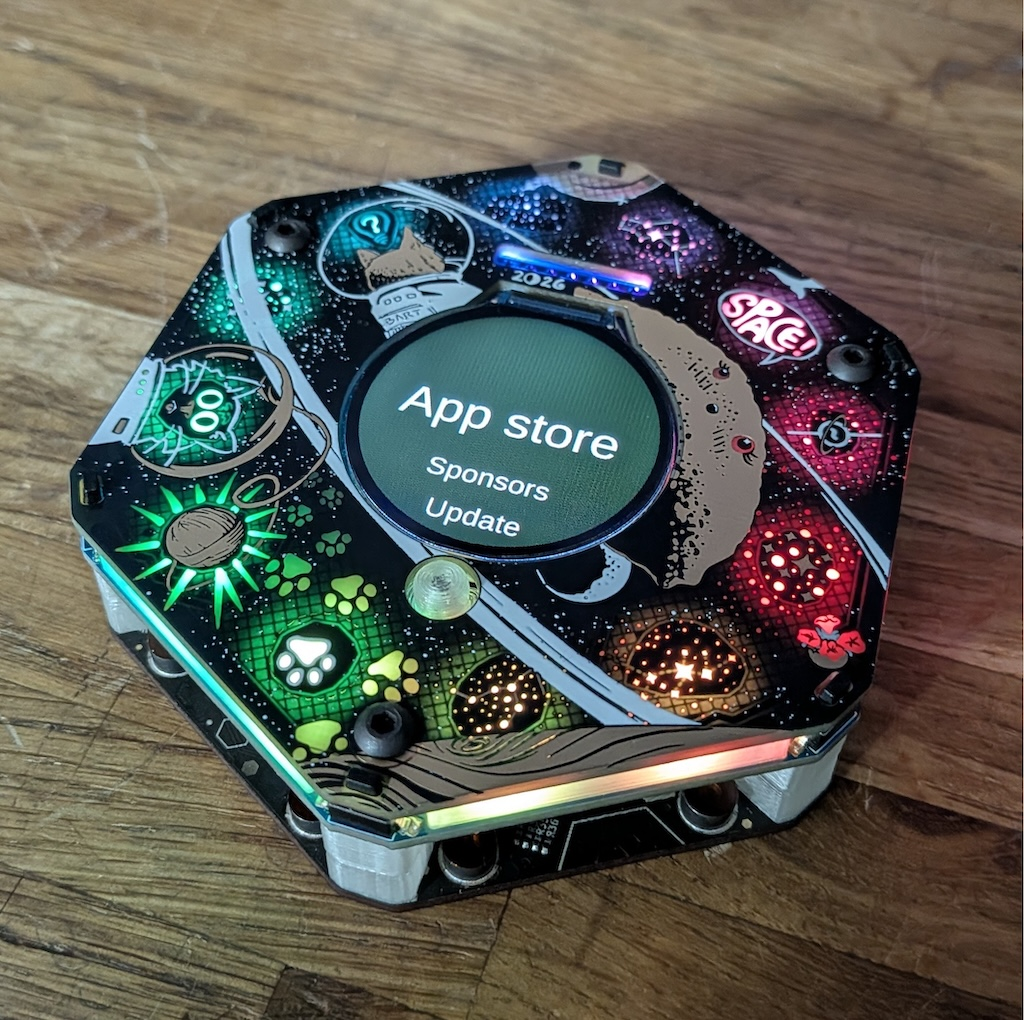
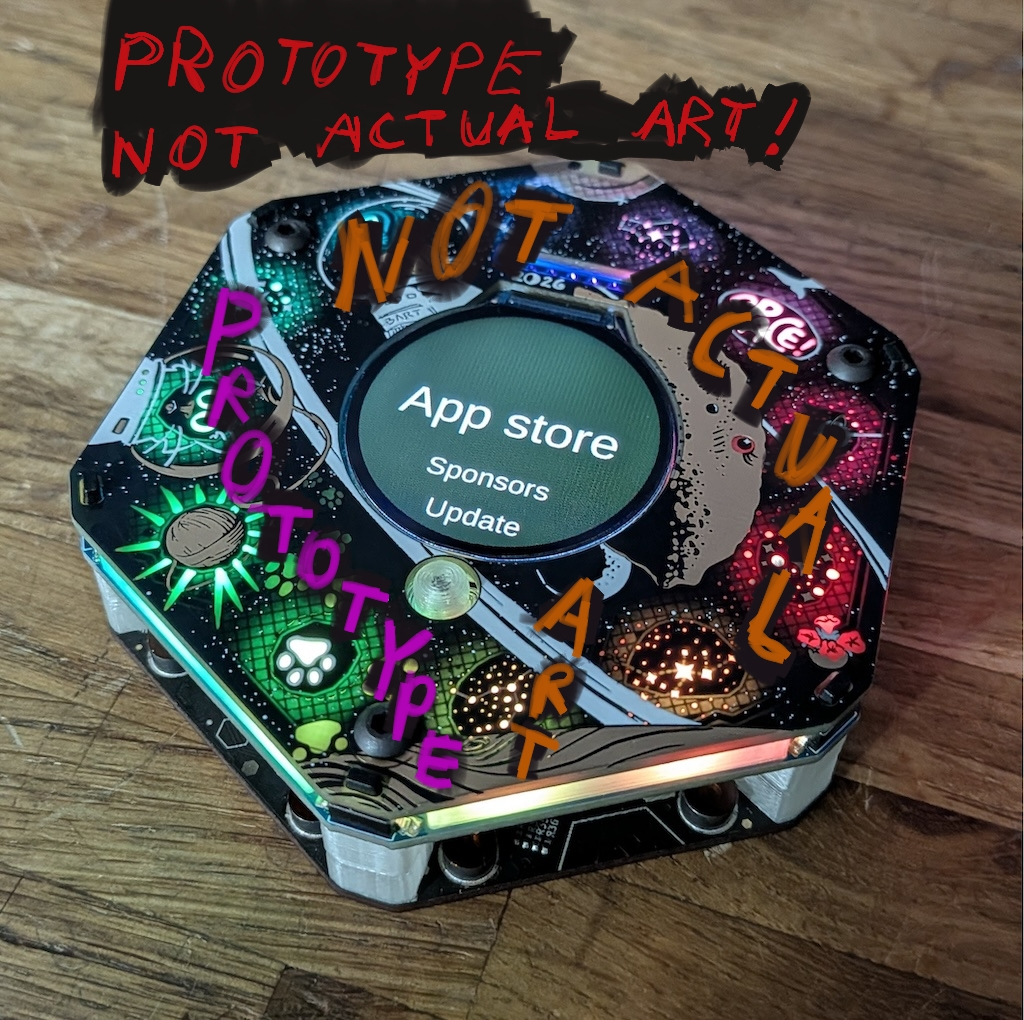
Update badge blog post to make it super obvious that the art will change

diff --git a/_posts/2026-05-28-tildagon-2026-spaceagon.md b/_posts/2026-05-28-tildagon-2026-spaceagon.md
@@ -15,7 +15,7 @@ capabilities.  All of these upgrades are available [to order now](https://www.em
 **We call it the Spaceagon**.
 
 ![A photograph of the spaceagon. It is a hexagonal electronic badge covered in temporary artwork of space cats.](../../../../images/2026-badge-photos/spaceagon-prototype.jpeg)
-<small>This is a prototype with prototype artwork - the final design will be revealed in the field.</small>
+<b>This is a prototype with prototype artwork - the final design will be revealed in the field.</b>
 
 ## What's new?
 
